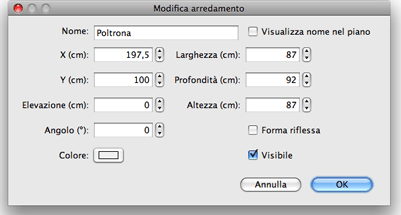
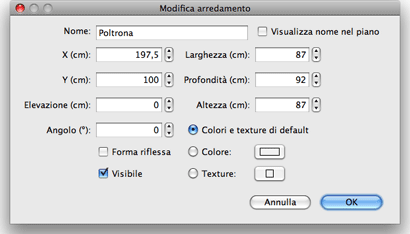
Updated translation for version 2.3 by Simone Bufalino

diff --git a/src/com/eteks/sweethome3d/viewcontroller/resources/help/it/editingFurniture.html b/src/com/eteks/sweethome3d/viewcontroller/resources/help/it/editingFurniture.html
@@ -120,7 +120,8 @@
 				mediante il suo pannello, facendo doppio click su questo pezzo
 				nella piantina o nella lista arredamento, o scegliendo
 				<I>Arredamento &gt; Modifica...</I> dopo averlo selezionato.</P>
-				<P ALIGN=CENTER><IMG SRC="images/editingFurniture.png" ALT="Modify furniture" ALIGN=BOTTOM WIDTH=403 HEIGHT=215 BORDER=0></P>
+				
+        <P ALIGN=CENTER><IMG SRC="images/editingFurniture.png" ALT="Modify furniture" ALIGN=BOTTOM WIDTH=410 HEIGHT=234 BORDER=0></P>
 				<P>Nel pannello arredamento, puoi cambiare il suo nome, l'ascissa
 				(X) e l'ordinata (Y) del suo centro, l'elevazione del suo fondo
 				dal pavimento, la sua larghezza, la sua profondità e la sua

diff --git a/src/com/eteks/sweethome3d/viewcontroller/resources/help/it/editingPreferences.html b/src/com/eteks/sweethome3d/viewcontroller/resources/help/it/editingPreferences.html
@@ -32,7 +32,8 @@
 				<P>Per modificare le preferenze di Sweet Home 3D, scegli <I>Sweet
 				Home 3D &gt; Preferenze...</I> sotto Mac OS X oppure <I>File &gt;
 				Preferenze...</I> sotto altri sistemi operativi.</P>
-				<P ALIGN=CENTER><IMG SRC="images/editingPreferences.png" ALIGN=BOTTOM WIDTH=417 HEIGHT=303 BORDER=0></P>
+				
+        <P ALIGN=CENTER><IMG SRC="images/editingPreferences.png" ALIGN=BOTTOM WIDTH=428 HEIGHT=347 BORDER=0></P>
 				<P>Nel pannello preferenze, puoi scegliere il <I>Linguaggio</I>
 				usato per l'interfaccia utente di Sweet Home 3D e l'<I>Unità di
 				misura</I> usata per disegnare i righelli e la griglia della
